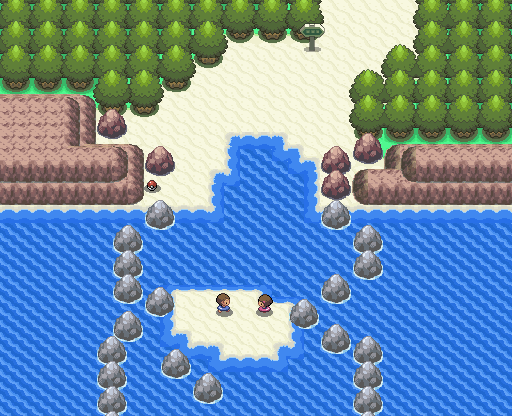
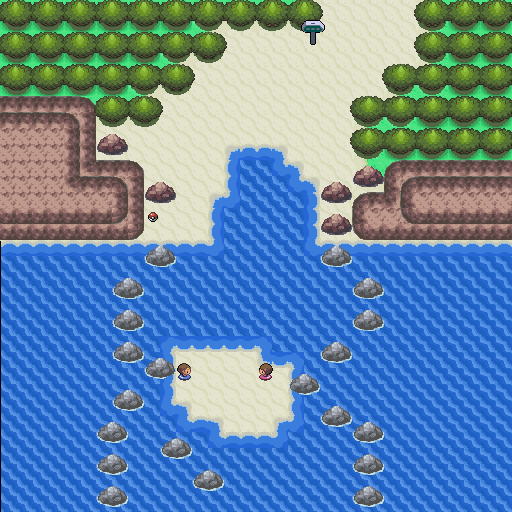
Sandgem town

diff --git a/src/lib/data/diamond-pearl/splits/roark.ts b/src/lib/data/diamond-pearl/splits/roark.ts
@@ -11,6 +11,7 @@ import ROUTE_204 from '@/lib/data/diamond-pearl/locations/route-204';
 import ROUTE_207 from '@/lib/data/diamond-pearl/locations/route-207';
 import ROUTE_218 from '@/lib/data/diamond-pearl/locations/route-218';
 import ROUTE_219 from '@/lib/data/diamond-pearl/locations/route-219';
+import SANDGEM_TOWN from '@/lib/data/diamond-pearl/locations/sandgem-town';
 import TWINLEAF_TOWN from '@/lib/data/diamond-pearl/locations/twinleaf-town';
 import VERITY_LAKEFRONT from '@/lib/data/diamond-pearl/locations/verity-lakefront';
 import { Split } from '@/lib/static/types';
@@ -23,6 +24,7 @@ const ROARK: Split = {
         ROUTE_201,
         VERITY_LAKEFRONT,
         LocationHelpers.withHiddenBattles(LAKE_VERITY),
+        SANDGEM_TOWN,
         ROUTE_202,
         LocationHelpers.withHiddenBattles(ROUTE_218),
         LocationHelpers.withHiddenBattles(ROUTE_219),

diff --git a/src/lib/data/diamond-pearl/maps/index.ts b/src/lib/data/diamond-pearl/maps/index.ts
@@ -106,6 +106,7 @@ export { default as route221 } from './route-221.png';
 export { default as route222 } from './route-222.png';
 export { default as route223 } from './route-223.png';
 export { default as ruinManiacCave } from './ruin-maniac-cave.png';
+export { default as sandgemTown } from './sandgem-town.png';
 export { default as snowpointCity } from './snowpoint-city.png';
 export { default as snowpointGym } from './snowpoint-gym.png';
 export { default as solaceonRuins1f } from './solaceon-ruins-1f.png';

diff --git a/src/lib/data/diamond-pearl/locations/sandgem-town.ts b/src/lib/data/diamond-pearl/locations/sandgem-town.ts
@@ -1,0 +1,11 @@
+import { sandgemTown } from '@/lib/data/diamond-pearl/maps';
+import { MapAnchor } from '@/lib/static/enums';
+import { Location } from '@/lib/static/types';
+
+const SANDGEM_TOWN: Location = {
+    name: 'Sandgem Town',
+    map: sandgemTown,
+    mapAnchor: MapAnchor.Center,
+};
+
+export default SANDGEM_TOWN;
